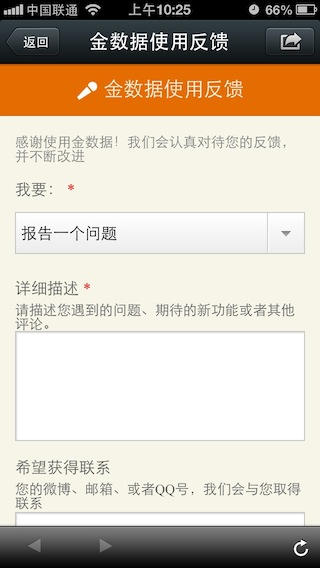
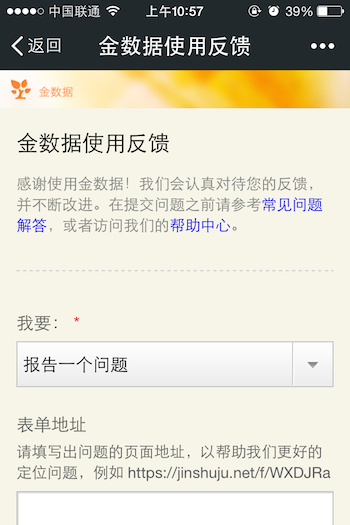
update wechat help

diff --git a/_posts/2014-2-7-wechat.md b/_posts/2014-2-7-wechat.md
@@ -15,7 +15,7 @@ published: true
 
 ### 功能-自动回复中的关键词自动回复
 
-1. 在微信后台设置自定义回复，添加在金数据所创建的表单地址。由于微信限制，需要在设置的时候把金数据网址中“https://”里的“s” 去掉。
+1. 在微信后台设置自定义回复，添加在金数据所创建的表单地址。
 ![](/images/weixin-2.png)
 
 2.  没有第二步了，看看效果吧
@@ -28,14 +28,3 @@ published: true
 
 ![](/images/weixin-3.png)
 
-### 常见问题
-在某些第三方平台，如[风铃](http://fl.qq.com/)等，不支持点击文字回复的效果，而必须显示出现链接的地址，比如下面的链接可能是无效的
-
-```html
-<a href="http://jinshuju.net/f/WXDJRa">意见反馈请点击这里</a>
-```
-而必须写成
-
-```html
-意见反馈 https://jinshuju.net/f/WXDJRa
-```
